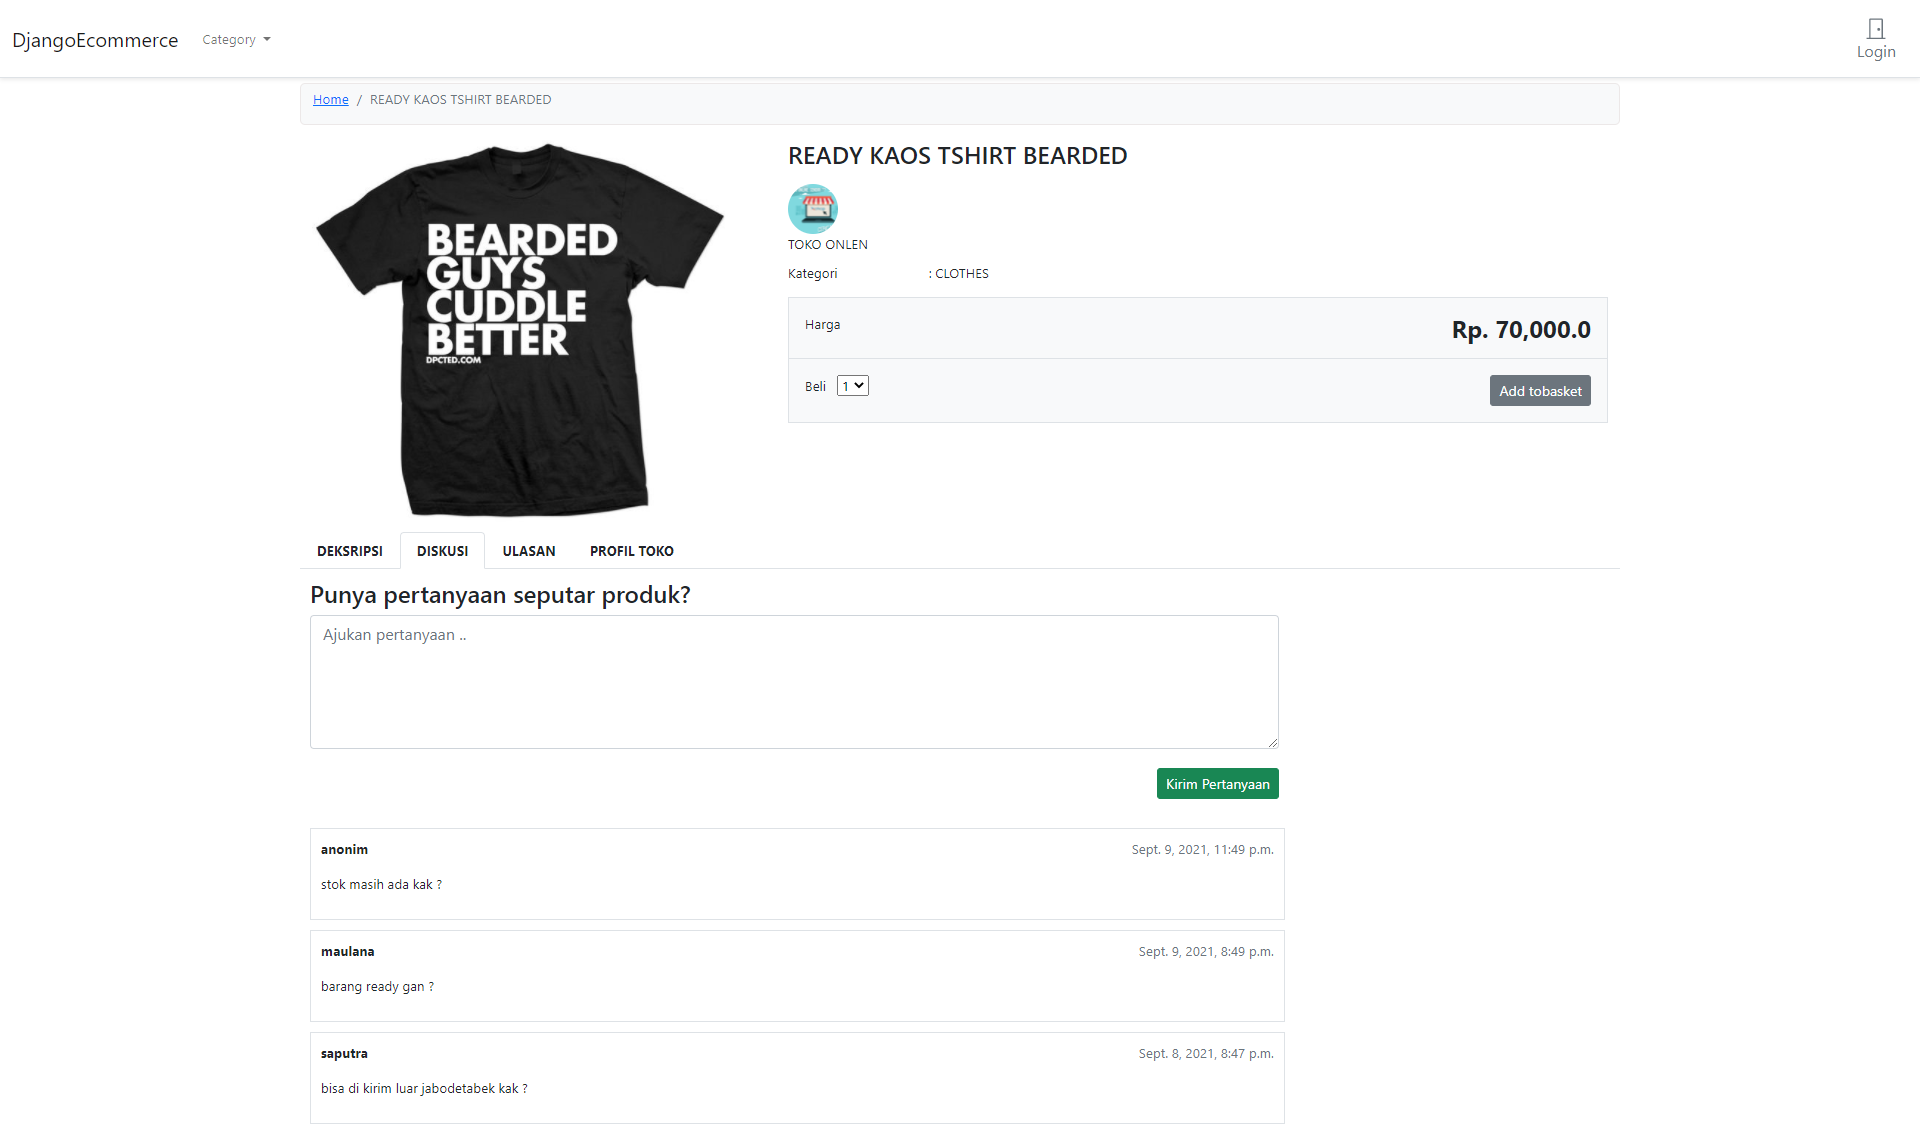
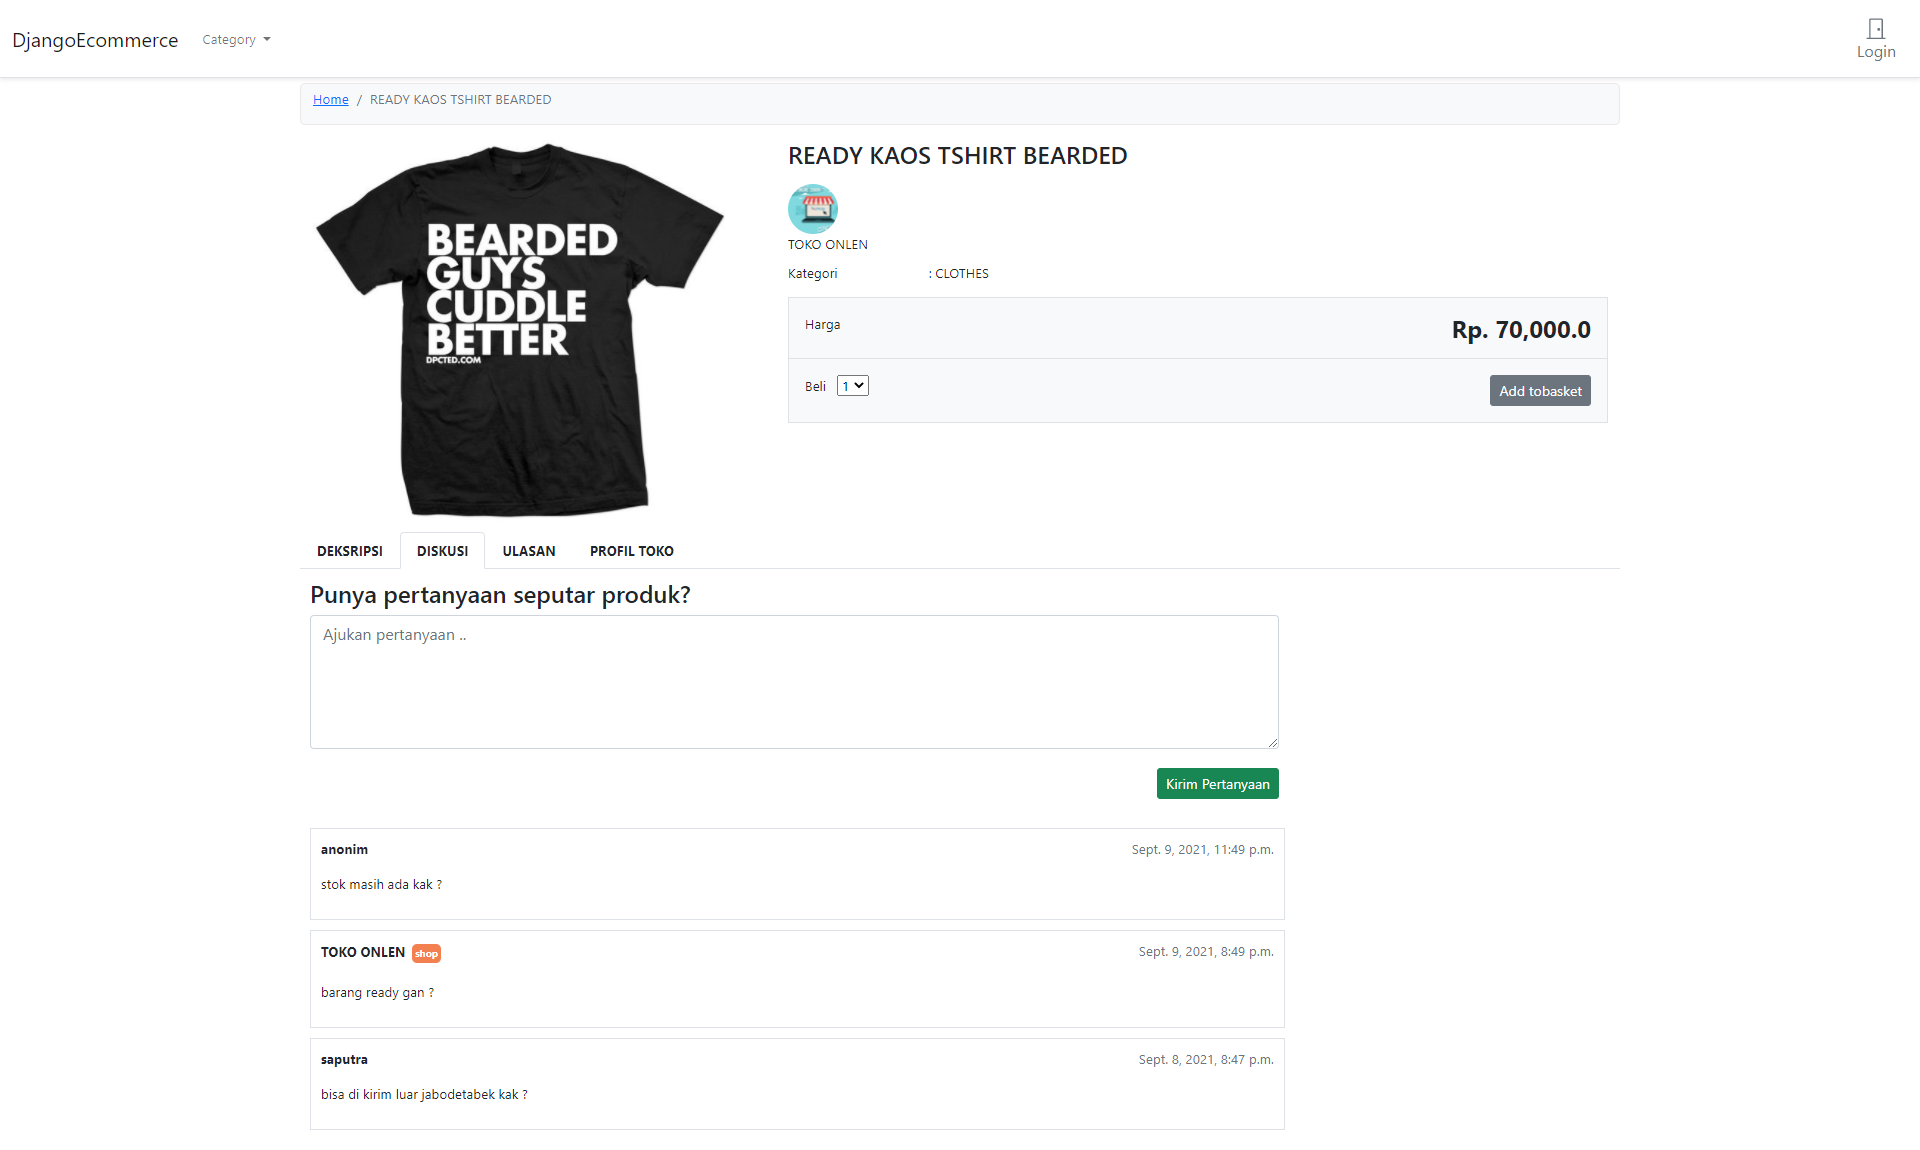
update style shop label

diff --git a/templates/store/products/detail.html b/templates/store/products/detail.html
@@ -105,7 +105,12 @@
                                          {% if comment.user == None %}
                                              <span class="fw-bold">anonim</span>
                                          {% elif comment.user.shop %}
-                                             <span class="fw-bold">{{ comment.user.shop.title }}</span>
+                                             {% if comment.user.shop == product.shop %}
+                                                 <span class="fw-bold">{{ comment.user.shop.title }}</span>
+                                                 <div class="shop-label">shop</div>
+                                             {% else %}
+                                                 <span class="fw-bold">{{ comment.user.shop.title }}</span>
+                                             {% endif %}
                                          {% else %}
                                              <span class="fw-bold">{{ comment.user.user_name }}</span>
                                          {% endif %}

diff --git a/templates/chat/home.html b/templates/chat/home.html
@@ -15,7 +15,7 @@
                     </a>
                     {% for user in users %}
                         {% if user.shop %}
-                            <a class="list-group-item user" id="{{ user.user_name }}">{{ user.shop.title }} (shop)</a>
+                            <a class="list-group-item user" id="{{ user.user_name }}">{{ user.shop.title }} <div class="shop-label">shop</div></a>
                         {% else %}
                             <a class="list-group-item user" id="{{ user.user_name }}">{{ user.user_name }}</a>
                         {% endif %}

diff --git a/static/css/style.css b/static/css/style.css
@@ -99,3 +99,14 @@
     font-size: 18px;
     font-weight: 300;
 }
+
+.shop-label {
+    display: inline-block;
+    padding: 2px 3px 2px 3px;
+    background-color: #f38051;
+    color: #ffffff;
+    border-radius: 5px;
+    margin: 3px;
+    font-size: 10px;
+    font-weight: bold;
+}

diff --git a/chat/views.py b/chat/views.py
@@ -1,9 +1,12 @@
-from django.shortcuts import get_object_or_404, render
+from django.shortcuts import get_object_or_404, render, redirect
 from django.db.models import Count
 
 from account.models import UserBase
 
 def chat_inbox(request):
+    if hasattr(request.user, 'shop') == False:
+        return redirect('account:dashboard')
+    
     users = []
     for user in request.user.comments_to.all().values('user').annotate(total=Count('id')).order_by():
         users.append(UserBase.objects.get(id=user['user']))
@@ -11,6 +14,8 @@ def chat_inbox(request):
     return render(request, 'chat/home.html', {'users': users})
 
 def chat_sent(request):
+    if hasattr(request.user, 'shop') == True:
+        return redirect('account:dashboard')
     
     users = []
     for recipient in request.user.comments_from.all().values('recipient').annotate(total=Count('id')).order_by():
